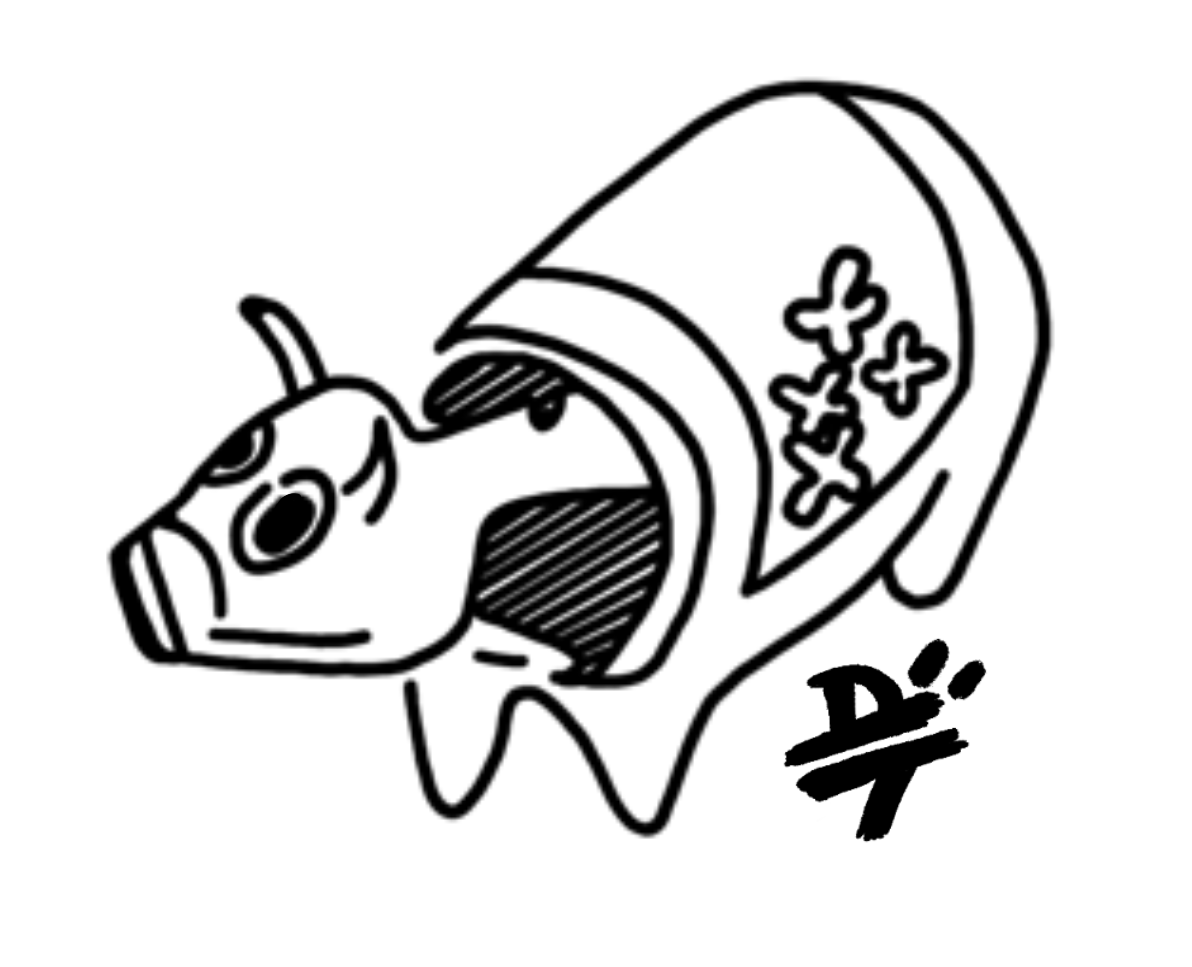
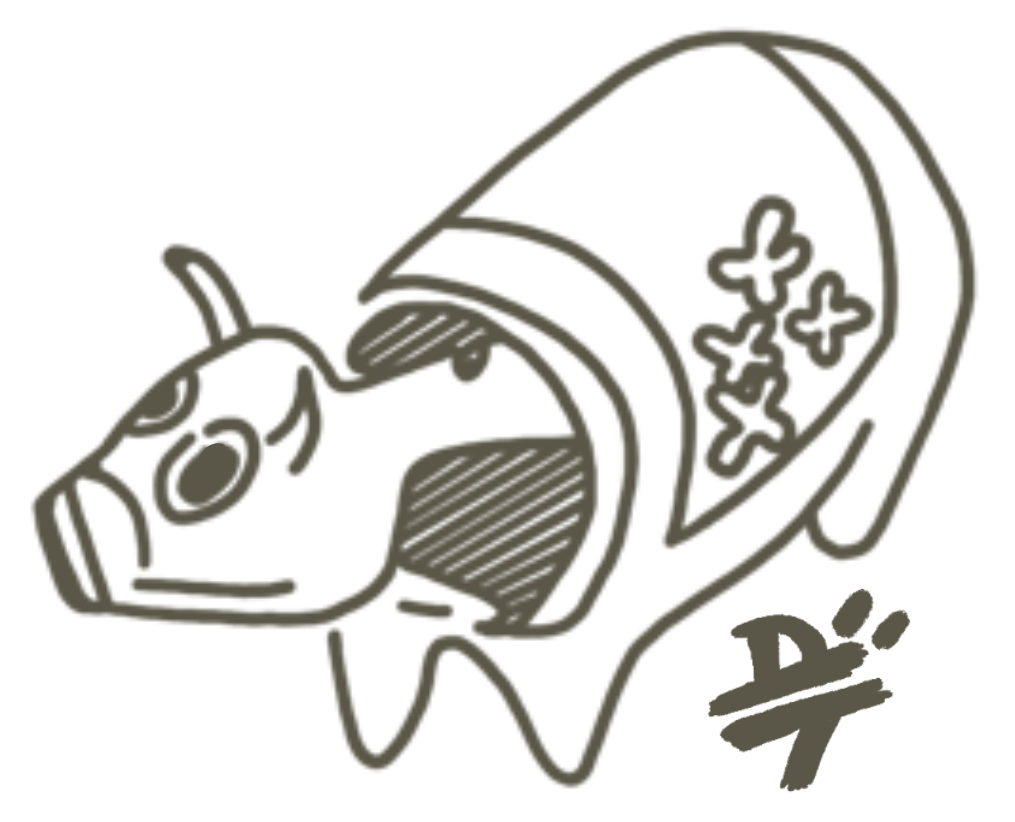
added beko

diff --git a/src/components/SideBar.js b/src/components/SideBar.js
@@ -152,9 +152,9 @@ const Sidebar = ({imageDescription, home, handleButtonClick}) => {
               {'About'}
             </div>
           </div>
-          {/* <div>
-            <img style={{paddingTop: '2.5em', width: '4em'}} src={'images/beko.jpg'}/>
-          </div> */}
+          <div>
+            <img style={{paddingTop: '1.75em', width: '4em'}} src={'images/beko.jpg'}/>
+          </div>
 
           
       </div>
